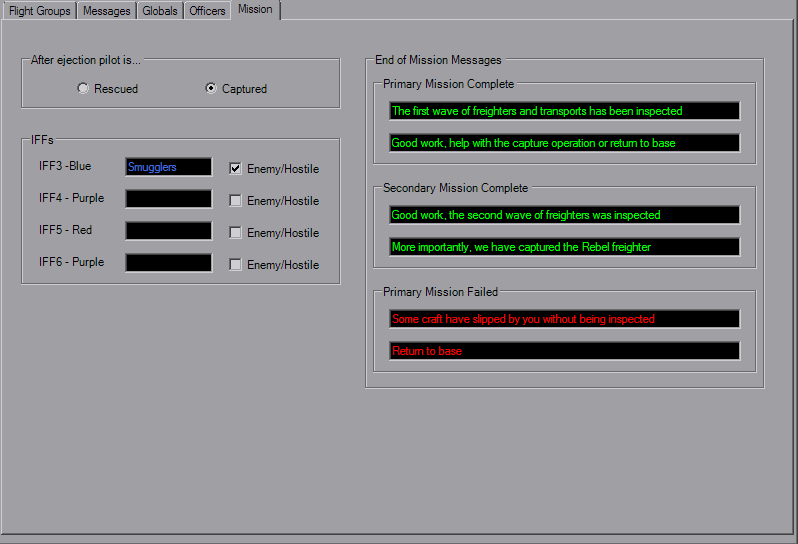
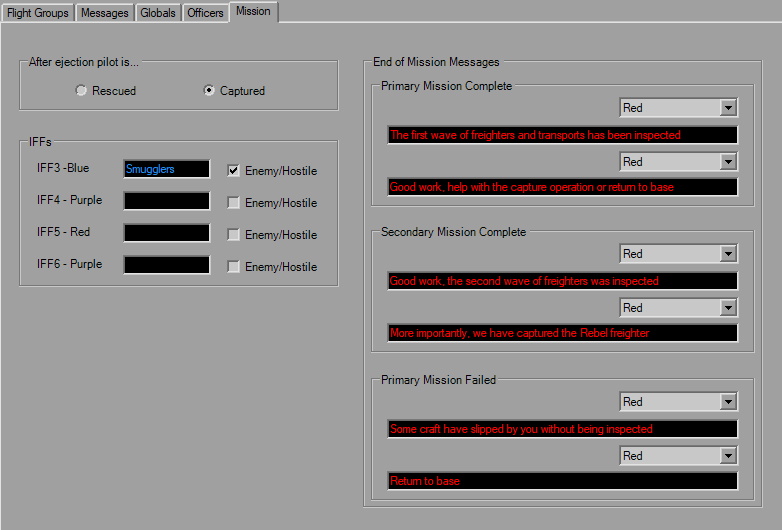
maybe last help update

diff --git a/help file/pages/XvT/flight.html b/help file/pages/XvT/flight.html
@@ -56,7 +56,7 @@ The Arrival <i>Delay</i> doesn't have any tricks to it; if there's a trigger set
 <h3><a name="goal" class="anchor">Goals</a></h3>
 <p align=center><img src="../../images/XvT/FG-Goals.png"></p>
 This is a rather simple tab, it lists the Flightgroup-specific goals. Changing the argument ("must" in the image) will control if the goal is a Primary, Prevent ("must NOT") or Secondary ("BONUS *") goal. For the goal to be applied, the <i>Enabled</i> checkbox must be checked. Traditionally the goal will always be applied to Team 1, unless you're making a multiplayer mission. The <i>Points</i> field is the number of points awarded or subtracted when the Bonus goal is completed. This can be negative, which is handy for a "you suck" type of condition where you don't want to neccessarily cause a mission failure.<br>
-You also have three strings at your disposal for the in-flight goal list.<br>
+There's also a time limit that can be applied to the goal, as well as three strings at your disposal for the in-flight goal list.<br>
 
 <h3><a name="wp" class="anchor">Waypoints</a></h3>
 <p align=center><img src="../../images/XvT/FG-WP.png"></p>
@@ -79,7 +79,7 @@ Orders make the world go 'round. XvT gives you four orders to control FG behavio
 <p align=center><img src="../../images/XvT/FG-Opt.png"></p>
 This tab lets you set a bunch of miscellaneous settings for the FG, most of them pertaining to loadouts available to select at the start of the mission while you're sitting in the hangar.  Use the <i>Craft Category</i> to set a bunch of flyable craft, or make a custom set.  There's a bunch of weapon options to play with, too.<br><br>
 
-<i>Roles</i> primarily are for message updates, such as "Your Command Ship is under attack!" etc.  The <i>Pilot</i> note is primarily for note-keeping, no real affect.<br><br>
+<i>Roles</i> primarily are for message updates, such as "Your Command Ship is under attack!" etc. They can also be used for orders and goals, however. Each role can independently asigned to a team.<br><br>
 
 XvT also provides a Skip trigger to jump to the last order.  This adds a small dose of dynamics to the mission.<br>
 

diff --git a/help file/pages/main/opt.html b/help file/pages/main/opt.html
@@ -8,9 +8,11 @@
 <ul>
 <li><a href="#overall">Overall</a>
 <li><a href="#map">Map</a>
+<li><a href="#xw">Xwing</a>
 <li><a href="#tie">TIE</a>
 <li><a href="#xvt">XvT/BoP</a>
 <li><a href="#xwa">XWA</a>
+<li><a href="#clr">Colors</a>
 </ul>
 When you start the Options dialog you will be greeted by the Overall tab.<br>
 <p align=center><img src="../../images/Opt-Overall.png"></p>
@@ -31,6 +33,10 @@ The last two check boxes were added in v1.3. One simply uses the Recent Director
 <p align=center><img src="../../images/Opt-Map.png"></p>
 A couple options that can be set at the Map Dialog, but set for defaults here.<br>
 
+<h3><a name="xw" class="anchor">Xwing</a></h3>
+<p align=center><img src="../../images/Opt-XW.png"></p>
+Same as TIE.<br>
+
 <h3><a name="tie" class="anchor">TIE</a></h3>
 <p align=center><img src="../../images/Opt-TIE.png"></p>
 The platform tabs primarily exist to control the default new FlightGroup and the platform installation directory. You can fake platform installations if you have the appropriate support files in the correct directory structure at this location (like BATTLE#.LFD files and the required files to support the galaxy image). If you do this, YOGEME will not be able to auto-detect the fake install should your settings be reset.<br><br>
@@ -44,5 +50,9 @@ Same as TIE, but adds in the additional briefing waypoints you can activate by d
 <h3><a name="xwa" class="anchor">XWA</a></h3>
 <p align=center><img src="../../images/Opt-XWA.png"></p>
 Nothing special, move along.<br>
+
+<h3><a name="clr" class="anchor">Colors</a></h3>
+<p align=center><img src="../../images/Opt-colors.png"></p>
+New in v1.5, this enables FG coloring in the dwop-downs, as well as the coloring for the clickable labels (orders/triggers). If you've got a Windows color scheme that makes it hard to see, you can fiddle with it here.  The predefined options lets you quickly revert to the original or to Troy Dangerfield's standard colors.<br>
 </body>
 </html>

diff --git a/help file/pages/XWA/flight.html b/help file/pages/XWA/flight.html
@@ -59,7 +59,7 @@ The Arrival <i>Delay</i> doesn't have any tricks to it; if there's a trigger set
 <h3><a name="goal" class="anchor">Goals</a></h3>
 <p align=center><img src="../../images/XWA/FG-Goals.png"></p>
 This is a rather simple tab, it lists the Flightgroup-specific goals. Changing the argument ("must" in the image) will control if the goal is a Primary, Prevent ("must NOT") or Secondary ("BONUS *") goal. For the goal to be applied, the <i>Enabled</i> checkbox must be checked. Traditionally the goal will always be applied to Team 1, unless you're making a multiplayer mission. The <i>Points</i> field is the number of points awarded or subtracted when the Bonus goal is completed. This can be negative, which is handy for a "you suck" type of condition where you don't want to neccessarily cause a mission failure.  Active Sequence applies to these goals for a dynamic feel.<br>
-You also have three strings at your disposal for the in-flight goal list.
+There's a time limit that can be applied and also three strings at your disposal for the in-flight goal list.
 
 <h3><a name="wp" class="anchor">Waypoints</a></h3>
 <p align=center><img src="../../images/XWA/FG-WP.png"></p>

diff --git a/help file/pages/TIE/off.html b/help file/pages/TIE/off.html
@@ -12,6 +12,6 @@ The <i>Shows when</i> drop-downs are for post-mission questions, this lets you h
 
 The 'Preview' button launches the Preview interface.<br>
 <p align=center><img src="../../images/TIE/OffPreview.png"></p>
-The interface behaves as it would in game: click the question to display the question how it should appear in-game, click "Page # of #" to flip forward or use the 'Previous/Next Page' buttons at the bottom. No edits can be performed in this interface, it is simply to double-check that you're not running off the screen.  Sometimes an extra empty page will be shown, although it's not there in-game.<br>
+The interface behaves as it would in game: click the question to display the question how it should appear in-game, L-click "Page # of #" to flip forward and R-click to flip previous, or use the 'Previous/Next Page' buttons at the bottom. No edits can be performed in this interface, it is simply to double-check that you're not running off the screen. If somehow there is a corrupt character detected that the FONT resource does not have an image for, a red 'X' will be shown in the viewer.<br>
 </body>
 </html>

diff --git a/help file/pages/XWA/team.html b/help file/pages/XWA/team.html
@@ -7,8 +7,8 @@
 <p align=center><big><h1>Team</h1></big></p>
 <p align=center><img src="../../images/XWA/team.png"></p>
 The Team tab sets the team names, allegiance and end of mission messages.  The selected team for the Team and Globals tabs are linked.<br><br>
-Not much to explain here.  XWA adds a "Neutral" allegiance, which previously was a combination of the other two.  The extra text box is a note field, used as the name of the person speaking.<br><br>
-The Name is limited to 17 char, EoM Messages to 64 char and the VoiceID to 20 char.<br><br>
+Not much to explain here.  XWA adds a "Neutral" allegiance, which previously was a combination of the other two.  The extra text boxes are note fields, originally used as the name of the person speaking and directions for the voice actors but otherwise don't have any effect on the mission itself.<br><br>
+The Name is limited to 17 char, EoM Messages to 64 char, the VoiceID to 20 char, and the Note to 100 char.<br><br>
 There's some Unknown values that you can play with as well here.<br>
 </body>
 </html>

diff --git a/help file/pages/XvT/brief.html b/help file/pages/XvT/brief.html
@@ -11,7 +11,8 @@ This is the pre-mission briefing animation that plays before you fly. It animate
 
 The XvT Briefing dialog behaves the same as TIE, although there is the cosmetic difference on the main display.  All of the events behave exactly the same, and in fact the briefing can be converted from TIE to XvT and reversed simply from copy and pasting.  The only real differences are that Unknown3 has been activated for XvT and there is a possibility of two extra events.<br><br>
 
-Also not shown above added in v1.3 is the "Visible to Teams" tab, which is primarily for multiplayer purposes and allows for the editing of all 8 briefings.<br><br>
+<p align=center><img src="../../images/XvT/Brief-Teams.png"></p>
+Available since v1.3 is the "Visible to Teams" tab, which is primarily for multiplayer purposes and allows for the editing of all 8 briefings.<br><br>
 
 Remaining information can be viewed on the <a href="../TIE/brief.html">TIE Briefing Dialog</a> page.<br>
 </body>

diff --git a/help file/pages/XWA/brief.html b/help file/pages/XWA/brief.html
@@ -14,7 +14,8 @@ The XWA Briefing dialog behaves the same as TIE and XvT, although there is the c
 <p align=center><img src="../../images/XWA/Brief-Strings.png"></p>
 In addition to the new events, XWA also allows you to edit the notes assigned to the Briefing Strings.  These were typically used as instructions for the voice actors.<br><br>
 
-Also not shown above added in v1.3 is the "Visible to Teams" tab, which is primarily for multiplayer purposes and allows for the editing of both briefings.<br><br>
+<p align=center><img src="../../images/XWA/Brief-teams.png"></p>
+Same as XvT, since v1.3 there's the "Visible to Teams" tab, which is primarily for multiplayer purposes and allows for the editing of both briefings.<br><br>
 
 Remaining information can be viewed on the <a href="../TIE/brief.html">TIE Briefing Dialog</a> page.<br>
 </body>

diff --git a/help file/pages/TIE/miss.html b/help file/pages/TIE/miss.html
@@ -8,6 +8,6 @@
 <p align=center><img src="../../images/TIE/Miss.png"></p>
 The Mission tab is rather simple and straight-forward. The first setting controls which animation you see after you fail a mission by turning your fighter in several smaller pieces.<br><br>
 The IFFs section changes the names and behaviour towards the player. The names have a limit of 12 characters and are used for Goal strings in-game.  Check the box if the ships are to be regarded as enemies, leave it unchecked for friendlies.<br><br>
-The End Of Mission Messages should be self-explanatory. They show up when a goal group is declared passed or failed.
+The End Of Mission Messages should be self-explanatory. They show up when a goal group is declared passed or failed. New in v1.5 is the color selector for those messages.
 </body>
 </html>
